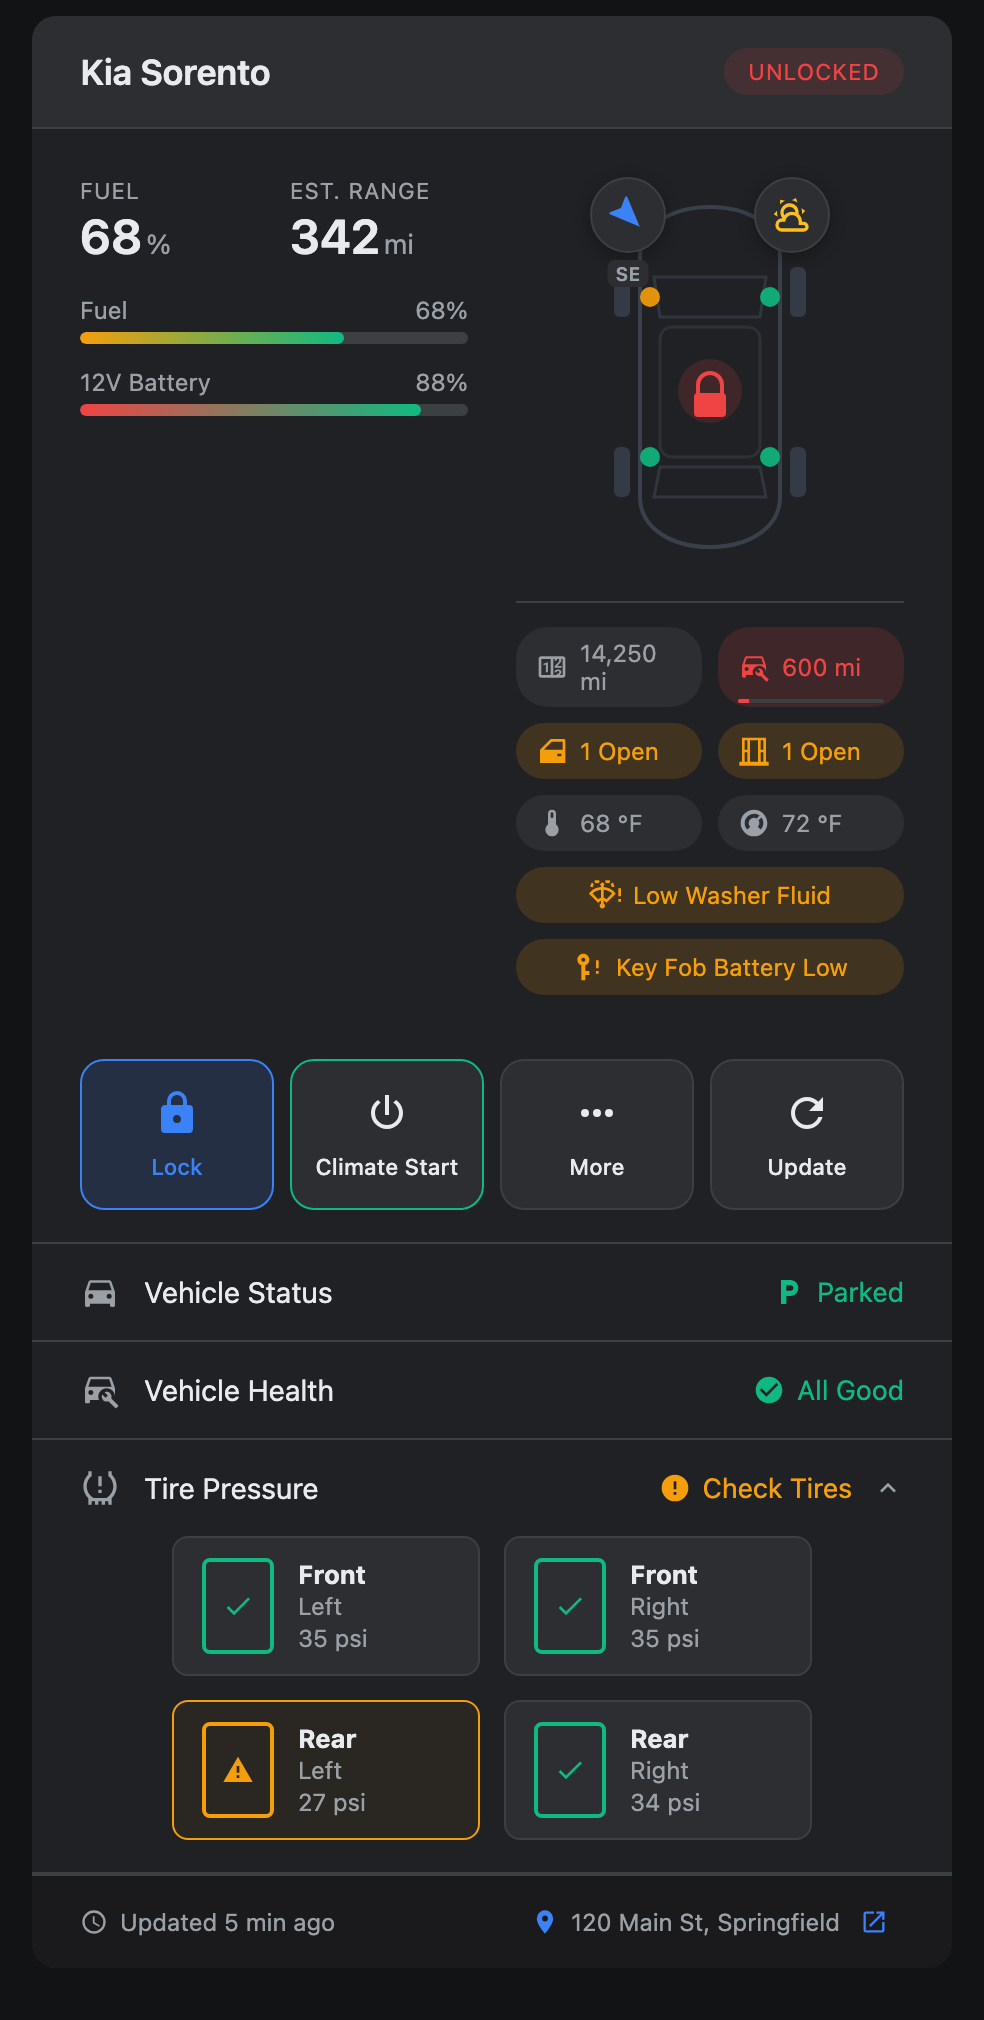
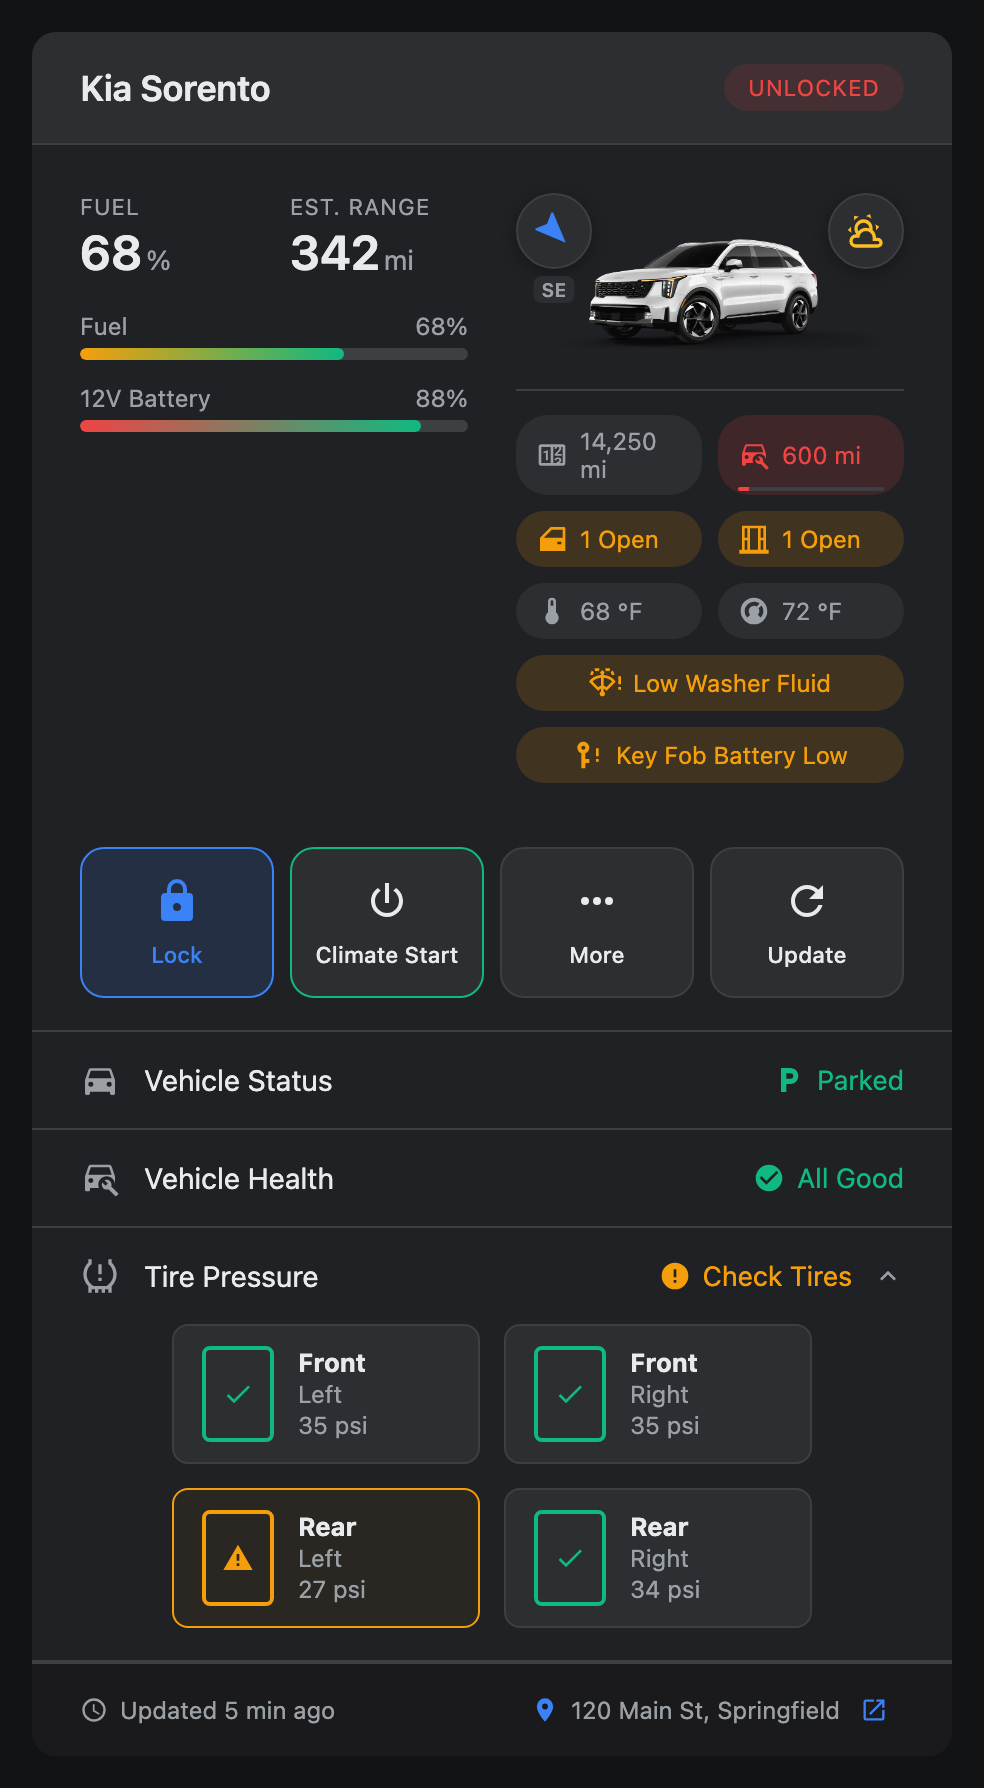
Show Kia's picture of the car when no image is set
Kia USA's vehicle data names a picture of the exact model, trim and
colour on Kia's owner site. Use it when no image URL is configured,
and fall back to the drawn diagram if it fails to load. Screenshots
now show real car pictures.

diff --git a/kia-vehicle-card.js b/kia-vehicle-card.js
@@ -1,7 +1,7 @@
 /**
  * Kia Vehicle Card for Home Assistant
  * A modern, comprehensive card for Kia/Hyundai vehicles
- * Version: 2.13.0-beta.6
+ * Version: 2.13.0-beta.7
  *
  * Features:
  * - MDI icons (no emojis)
@@ -190,6 +190,22 @@ function findVehicleDevices(hass) {
     const device = hass?.devices?.[id];
     return { id, name: device?.name_by_user || device?.name || id };
   });
+}
+
+// Kia USA's vehicle data names a picture of the exact model, trim and colour
+// on Kia's owner site. Other regions don't send one.
+const KIA_IMAGE_HOST = 'https://owners.kia.com';
+
+function vehicleDataImage(vehicleData) {
+  const images = vehicleData?.vehicleConfig?.vehicleDetail?.images;
+  if (!Array.isArray(images)) return null;
+  const image = images.find((candidate) => Number(candidate?.imageType) === 1) ?? images[0];
+  const path = image?.imagePath;
+  const name = image?.imageName;
+  if (typeof path !== 'string' || typeof name !== 'string' || !name) return null;
+  if (path.startsWith('https://')) return `${path}${name}`;
+  if (!path.startsWith('/content/dam/kia/')) return null;
+  return `${KIA_IMAGE_HOST}${path}${name}`;
 }
 
 // start_climate takes the unit of the API's region, whatever the user's HA uses
@@ -689,11 +705,12 @@ class KiaVehicleCard extends HTMLElement {
     const canUpdate = this.hasService('force_update');
     const controlCount = [canLock, canClimate, canQuickActions, canUpdate].filter(Boolean).length;
 
-    // Image handling
-    let vehicleImage = this._config.image;
-    if (!vehicleImage) {
-      vehicleImage = this.attrOf('data', 'vehicle_image');
-    }
+    // Your own picture first, then the one Kia sends, then the drawn diagram.
+    // A picture that fails to load falls back to the diagram.
+    let vehicleImage = this._config.image
+      || this.attrOf('data', 'vehicle_image')
+      || vehicleDataImage(this.attrOf('data', 'vehicle_data'));
+    if (vehicleImage && vehicleImage === this._failedImage) vehicleImage = null;
 
     const vehicleImageHtml = vehicleImage
       ? `<img class="vehicle-image" src="${escapeHtml(vehicleImage)}" alt="Vehicle" />`
@@ -2356,6 +2373,12 @@ class KiaVehicleCard extends HTMLElement {
   }
 
   addEventListeners() {
+    const image = this.shadowRoot.querySelector('.vehicle-image');
+    image?.addEventListener('error', () => {
+      this._failedImage = image.getAttribute('src');
+      this.render();
+    }, { once: true });
+
     // Lock toggle button
     this.shadowRoot.getElementById('btn-lock')?.addEventListener('click', () => {
       const entity_id = this.entityId('lock');
@@ -2642,7 +2665,8 @@ class KiaVehicleCardEditor extends HTMLElement {
         </div>
         <div class="editor-row">
           <label>Vehicle Image URL</label>
-          <input type="text" id="image" value="${escapeHtml(this._config.image)}" placeholder="https://owners.kia.com/...">
+          <input type="text" id="image" value="${escapeHtml(this._config.image)}" placeholder="https://...">
+          <small>Optional. Without one, the card uses Kia's picture of your car when the integration provides it, or draws a diagram.</small>
         </div>
 
         <div class="editor-section">Climate Presets</div>
@@ -2789,4 +2813,4 @@ window.customCards.push({
   preview: true
 });
 
-console.info('%c KIA-VEHICLE-CARD %c v2.13.0-beta.6 ', 'background: #3B82F6; color: white; font-weight: bold; border-radius: 4px 0 0 4px;', 'background: #1f2937; color: white; border-radius: 0 4px 4px 0;');
+console.info('%c KIA-VEHICLE-CARD %c v2.13.0-beta.7 ', 'background: #3B82F6; color: white; font-weight: bold; border-radius: 4px 0 0 4px;', 'background: #1f2937; color: white; border-radius: 0 4px 4px 0;');

diff --git a/tests/card.test.js b/tests/card.test.js
@@ -23,6 +23,15 @@ function loadCard() {
         getElementById: (id) => ({
           addEventListener: (type, fn) => { listeners[id] = fn; },
         }),
+        querySelector: (selector) => {
+          if (selector !== '.vehicle-image') return null;
+          const src = this.shadowRoot.innerHTML.match(/<img class="vehicle-image" src="([^"]*)"/)?.[1];
+          if (src === undefined) return null;
+          return {
+            getAttribute: () => src.replace(/&amp;/g, '&'),
+            addEventListener: (type, fn) => { listeners[`image-${type}`] = fn; },
+          };
+        },
       };
       return this.shadowRoot;
     }
@@ -612,4 +621,37 @@ test('editor offers vehicles and does not rebuild on unrelated hass updates', ()
   editor.hass = { ...hass, states: { ...hass.states } };
   editor.setConfig({ device_id: 'd1' });
   assert.equal(renders, 1);
+});
+
+const kiaPicture = (imagePath, imageName = 'car.png') => ({
+  'sensor.car_odometer': entity('12000'),
+  'sensor.car_data': entity('on', {
+    vehicle_data: { vehicleConfig: { vehicleDetail: { images: [{ imageName, imagePath, imageType: 1 }] } } },
+  }),
+});
+const imageSrc = (card) => card.shadowRoot.innerHTML.match(/<img class="vehicle-image" src="([^"]*)"/)?.[1] ?? null;
+
+test('uses the picture Kia sends when no image is configured', () => {
+  const card = mount({ vehicle_id: 'car' }, { states: kiaPicture('/content/dam/kia/us/owners/image/vehicle/2025/sorento/sx/') });
+  assert.equal(imageSrc(card), 'https://owners.kia.com/content/dam/kia/us/owners/image/vehicle/2025/sorento/sx/car.png');
+});
+
+test('a configured image wins over the picture Kia sends', () => {
+  const card = mount({ vehicle_id: 'car', image: 'https://example.com/mine.png' },
+    { states: kiaPicture('/content/dam/kia/us/owners/image/vehicle/2025/sorento/sx/') });
+  assert.equal(imageSrc(card), 'https://example.com/mine.png');
+});
+
+test('picture paths from other sites are not guessed', () => {
+  const card = mount({ vehicle_id: 'car' }, { states: kiaPicture('/content/dam/hyundai/us/vehicle/') });
+  assert.equal(imageSrc(card), null);
+  assert.match(card.shadowRoot.innerHTML, /<svg/);
+});
+
+test('a picture that fails to load falls back to the diagram', () => {
+  const card = mount({ vehicle_id: 'car' }, { states: kiaPicture('/content/dam/kia/us/owners/image/vehicle/2012/gone/') });
+  assert.ok(imageSrc(card));
+  card.shadowRoot.listeners['image-error']();
+  assert.equal(imageSrc(card), null);
+  assert.match(card.shadowRoot.innerHTML, /<svg/);
 });

diff --git a/README.md b/README.md
@@ -14,7 +14,7 @@ The card only shows what your vehicle actually reports. If a sensor doesn't exis
 | **Alerts** | **EV charging** |
 | ![Unlocked car with an open door, an open window and warnings](docs/images/alerts.png) | ![EV charging, with charging power and time to full](docs/images/ev-charging.png) |
 
-<sub>Screenshots use demo data.</sub>
+<sub>Screenshots use demo data. The car pictures are Kia's own, as the card shows them.</sub>
 
 ## Features
 
@@ -91,7 +91,7 @@ Everything is set up in the card's editor. Edit your dashboard, add **Kia Vehicl
 - **Vehicle**: the car to show. Pick it here and the card finds its sensors, even if you've renamed them.
 - **Entity Prefix**: leave this empty unless your car isn't found. Then enter the start of its entity names, for example `my_car` from `sensor.my_car_fuel_level`.
 - **Display Name**: the name in the card's header.
-- **Vehicle Image URL**: a picture of your car. Without one, the card draws a diagram that shows each door's state.
+- **Vehicle Image URL**: optional. Leave it empty and the card shows Kia's picture of your exact model, trim and colour when the integration provides one (Kia USA does). Otherwise it draws a diagram that shows each door's state.
 
 ### Climate presets
 
@@ -128,7 +128,7 @@ The [Kia UVO / Hyundai Bluelink integration](https://github.com/Hyundai-Kia-Conn
 
 ## Privacy
 
-The card talks only to your Home Assistant, with one exception: with **Show weather at the car's location** turned on, it asks Open-Meteo for the weather at the car's approximate location, about every 30 minutes. Opening the location link sends the coordinates to Google Maps.
+The card talks only to your Home Assistant, with two exceptions. Your browser loads the car's picture from Kia's owner site (or from your own image URL, if you set one). With **Show weather at the car's location** turned on, the card asks Open-Meteo for the weather at the car's approximate location, about every 30 minutes. Opening the location link sends the coordinates to Google Maps.
 
 ## Contributing
 

diff --git a/CHANGELOG.md b/CHANGELOG.md
@@ -16,6 +16,7 @@ Planned as 2.13.0. Available for testing as the `v2.13.0-beta` pre-releases.
 - Optional weather at the car's location, from Open-Meteo. Turn it on in the card's editor. Off by default because it shares the car's approximate location.
 - A second tap to confirm unlocking. Locking still takes one tap.
 - Seat heater sensors now feed the "Climate Active" row on vehicles that don't send the detailed climate data.
+- Kia's picture of your exact model, trim and colour, when no image URL is set and the integration provides one (Kia USA). If it fails to load, the card draws its diagram instead.
 - Screenshots in the README, including the card editor.
 
 ### Changed
